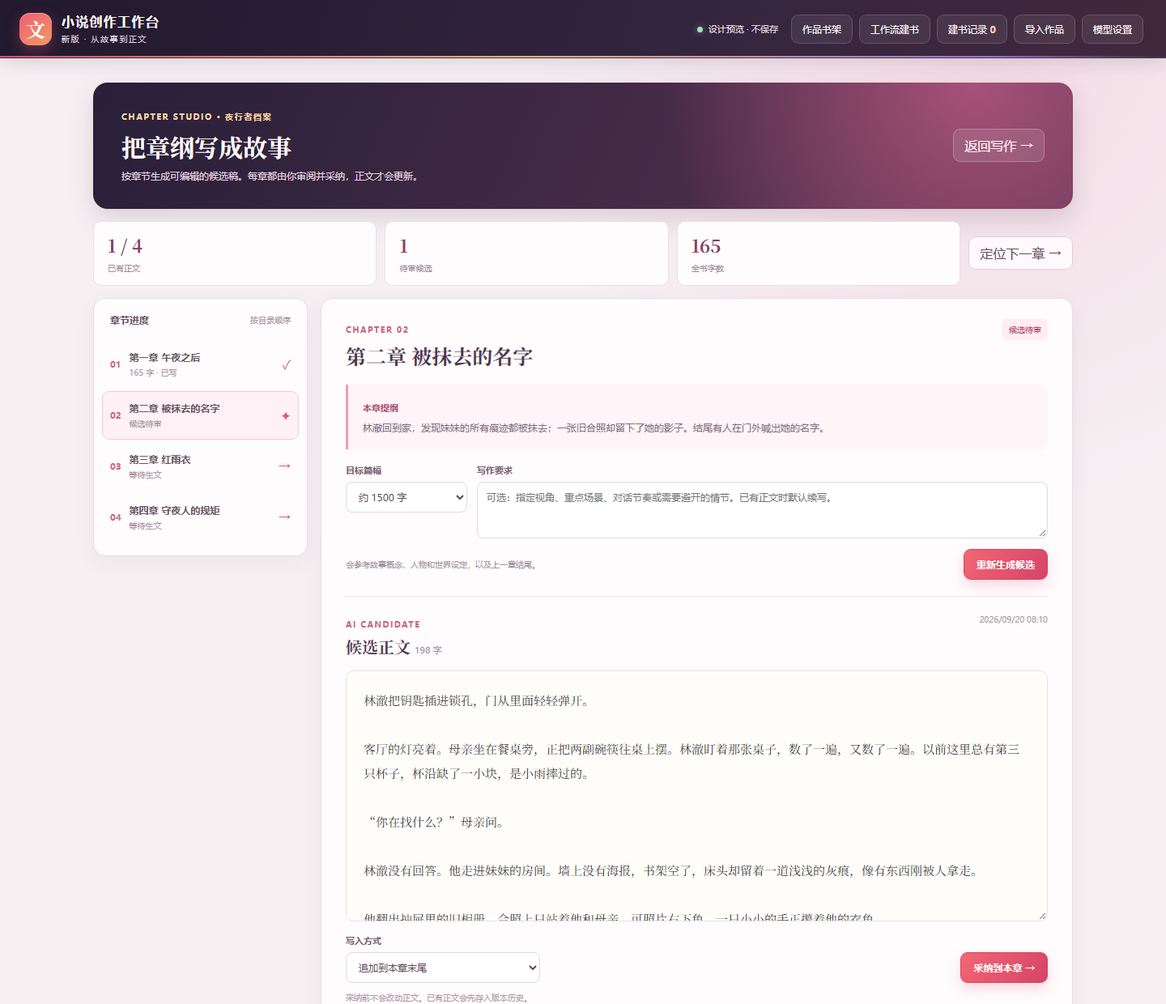
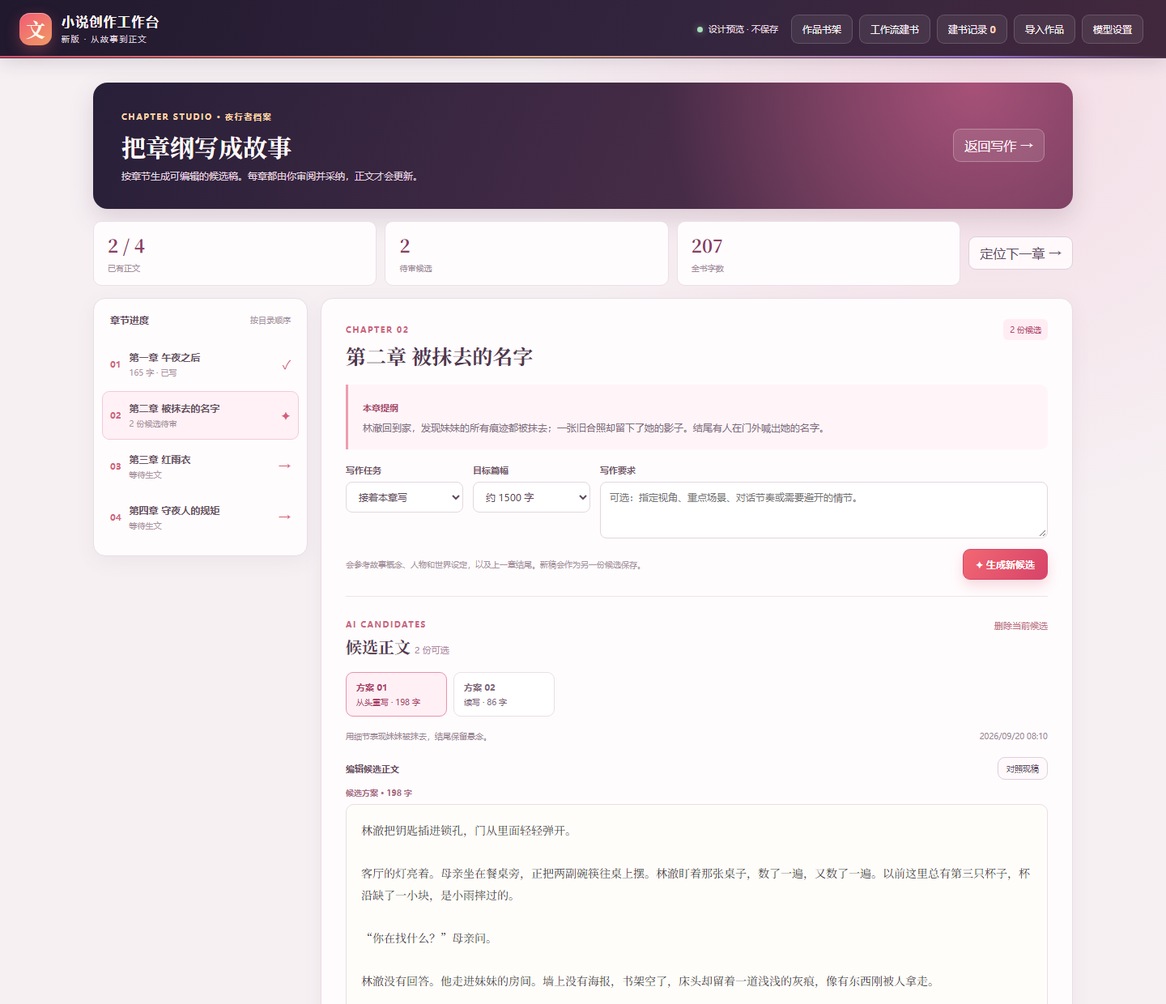
feat: compare and preserve chapter prose candidates

diff --git a/src/App.vue b/src/App.vue
@@ -74,12 +74,20 @@
         <header class="production-hero"><div><small>CHAPTER STUDIO · {{ book.title }}</small><h1>把章纲写成故事</h1><p>按章节生成可编辑的候选稿。每章都由你审阅并采纳，正文才会更新。</p></div><button class="secondary" @click="screen = 'editor'">返回写作 →</button></header>
         <div class="production-summary"><div><strong>{{ productionDoneCount }} / {{ book.chapters.length }}</strong><span>已有正文</span></div><div><strong>{{ productionCandidateCount }}</strong><span>待审候选</span></div><div><strong>{{ bookWords.toLocaleString() }}</strong><span>全书字数</span></div><button class="secondary" :disabled="!nextUnwrittenChapter" @click="selectProductionChapter(nextUnwrittenChapter!.id)">定位下一章 →</button></div>
         <div class="production-layout">
-          <nav class="production-chapters" aria-label="生文章节列表"><div class="production-list-title"><strong>章节进度</strong><span>按目录顺序</span></div><button v-for="(item, index) in book.chapters" :key="item.id" type="button" :class="{ active: item.id === selectedChapterId }" @click="selectProductionChapter(item.id)"><b>{{ String(index + 1).padStart(2, '0') }}</b><span><strong>{{ item.title }}</strong><small>{{ item.proseCandidate ? '候选待审' : item.content.trim() ? `${countWords(item.content)} 字 · 已写` : '等待生文' }}</small></span><i>{{ item.proseCandidate ? '✦' : item.content.trim() ? '✓' : '→' }}</i></button></nav>
+          <nav class="production-chapters" aria-label="生文章节列表"><div class="production-list-title"><strong>章节进度</strong><span>按目录顺序</span></div><button v-for="(item, index) in book.chapters" :key="item.id" type="button" :class="{ active: item.id === selectedChapterId }" @click="selectProductionChapter(item.id)"><b>{{ String(index + 1).padStart(2, '0') }}</b><span><strong>{{ item.title }}</strong><small>{{ item.proseCandidates?.length ? `${item.proseCandidates.length} 份候选待审` : item.content.trim() ? `${countWords(item.content)} 字 · 已写` : '等待生文' }}</small></span><i>{{ item.proseCandidates?.length ? '✦' : item.content.trim() ? '✓' : '→' }}</i></button></nav>
           <section v-if="chapter" class="production-stage">
-            <div class="production-stage-head"><div><small>CHAPTER {{ String(book.chapters.findIndex(item => item.id === selectedChapterId) + 1).padStart(2, '0') }}</small><h2>{{ chapter.title }}</h2></div><span :class="{ ready: !!chapter.proseCandidate }">{{ chapter.proseCandidate ? '候选待审' : chapter.content.trim() ? '已有正文' : '待生成' }}</span></div>
+            <div class="production-stage-head"><div><small>CHAPTER {{ String(book.chapters.findIndex(item => item.id === selectedChapterId) + 1).padStart(2, '0') }}</small><h2>{{ chapter.title }}</h2></div><span :class="{ ready: !!chapter.proseCandidates?.length }">{{ chapter.proseCandidates?.length ? `${chapter.proseCandidates.length} 份候选` : chapter.content.trim() ? '已有正文' : '待生成' }}</span></div>
             <div class="production-outline"><strong>本章提纲</strong><p>{{ chapter.outline || '还没有章纲。可以先在写作页补充，以便 AI 把握本章事件。' }}</p></div>
-            <div class="production-controls"><div class="production-fields"><label>目标篇幅<select v-model.number="productionLength"><option :value="800">约 800 字</option><option :value="1500">约 1500 字</option><option :value="2000">约 2000 字</option></select></label><label>写作要求<textarea v-model="productionInstruction" placeholder="可选：指定视角、重点场景、对话节奏或需要避开的情节。已有正文时默认续写。" /></label></div><div class="production-generate"><span>会参考故事概念、人物和世界设定，以及上一章结尾。</span><button v-if="productionBusy" class="secondary" @click="stopProduction">停止生成</button><button v-else class="primary" @click="generateProduction">{{ chapter.proseCandidate ? '重新生成候选' : '✦ 生成正文候选' }}</button></div><p v-if="productionError" class="workflow-error" role="alert">{{ productionError }}</p></div>
-            <div v-if="chapter.proseCandidate" class="production-candidate"><div class="production-section-head"><div><small>AI CANDIDATE</small><h3>候选正文 <span>{{ countWords(chapter.proseCandidate.content) }} 字</span></h3></div><time :datetime="chapter.proseCandidate.createdAt">{{ formatVersionTime(chapter.proseCandidate.createdAt) }}</time></div><p v-if="chapter.proseCandidate.baseUpdatedAt !== chapter.updatedAt" class="production-warning">生成后本章又有修改，请确认候选与现稿衔接。</p><textarea v-model="chapter.proseCandidate.content" aria-label="可编辑的正文候选" spellcheck="false" /><div class="production-adopt"><label>写入方式<select v-model="productionInsert"><option value="append">追加到本章末尾</option><option value="replace">替换本章正文</option></select></label><button class="primary" :disabled="!chapter.proseCandidate.content.trim()" @click="adoptProduction">采纳到本章 →</button></div><p>采纳前不会改动正文。已有正文会先存入版本历史。</p></div>
+            <div class="production-controls"><div class="production-fields"><label>写作任务<select v-model="productionKind"><option value="continue" :disabled="!chapter.content.trim()">接着本章写</option><option value="rewrite">从头写本章</option></select></label><label>目标篇幅<select v-model.number="productionLength"><option :value="800">约 800 字</option><option :value="1500">约 1500 字</option><option :value="2000">约 2000 字</option></select></label><label>写作要求<textarea v-model="productionInstruction" placeholder="可选：指定视角、重点场景、对话节奏或需要避开的情节。" /></label></div><div class="production-generate"><span>会参考故事概念、人物和世界设定，以及上一章结尾。新稿会作为另一份候选保存。</span><button v-if="productionBusy" class="secondary" @click="stopProduction">停止生成</button><button v-else class="primary" @click="generateProduction">✦ 生成新候选</button></div><p v-if="productionError" class="workflow-error" role="alert">{{ productionError }}</p></div>
+            <div v-if="selectedProseCandidate" class="production-candidate">
+              <div class="production-section-head"><div><small>AI CANDIDATES</small><h3>候选正文 <span>{{ chapter.proseCandidates?.length }} 份可选</span></h3></div><button class="production-delete" @click="deleteProductionCandidate">删除当前候选</button></div>
+              <div class="production-variants" role="tablist" aria-label="正文候选版本"><button v-for="(candidate, index) in chapter.proseCandidates" :key="candidate.id" type="button" role="tab" :aria-selected="selectedProseCandidate.id === candidate.id" :class="{ active: selectedProseCandidate.id === candidate.id }" @click="selectProductionCandidate(candidate.id)"><strong>方案 {{ String(index + 1).padStart(2, '0') }}</strong><span>{{ candidate.kind === 'rewrite' ? '从头重写' : '续写' }} · {{ countWords(candidate.content) }} 字</span></button></div>
+              <div class="production-candidate-meta"><span>{{ selectedProseCandidate.instruction || '没有额外写作要求' }}</span><time :datetime="selectedProseCandidate.createdAt">{{ formatVersionTime(selectedProseCandidate.createdAt) }}</time></div>
+              <p v-if="selectedProseCandidate.baseUpdatedAt !== chapter.updatedAt" class="production-warning">生成后本章又有修改，请确认候选与现稿衔接。</p>
+              <div class="production-compare-toolbar"><strong>{{ compareProduction && chapter.content.trim() ? '现稿与候选对照' : '编辑候选正文' }}</strong><button v-if="chapter.content.trim()" class="secondary" @click="compareProduction = !compareProduction">{{ compareProduction ? '单独审阅' : '对照现稿' }}</button></div>
+              <div class="production-compare" :class="{ comparing: compareProduction && chapter.content.trim() }"><div v-if="compareProduction && chapter.content.trim()" class="production-text-panel"><span>当前正文 · {{ countWords(chapter.content) }} 字</span><textarea :value="chapter.content" aria-label="当前正文（只读）" readonly /></div><div class="production-text-panel"><span>候选方案 · {{ countWords(selectedProseCandidate.content) }} 字</span><textarea v-model="selectedProseCandidate.content" aria-label="可编辑的正文候选" spellcheck="false" /></div></div>
+              <div class="production-adopt"><label>写入方式<select v-model="productionInsert"><option value="append">追加到本章末尾</option><option value="replace">替换本章正文</option></select></label><button class="primary" :disabled="!selectedProseCandidate.content.trim()" @click="adoptProduction">采纳这份候选 →</button></div><p>采纳前不会改动正文。已有正文会先存入版本历史；其他候选继续保留。</p>
+            </div>
             <div v-if="chapter.content.trim()" class="production-existing"><details><summary>查看当前正文 · {{ countWords(chapter.content) }} 字</summary><div>{{ chapter.content }}</div></details></div>
           </section>
         </div>
@@ -300,7 +308,7 @@ const data = ref(designPreview ? designFixture() : loadData())
 const importInput = ref<HTMLInputElement | null>(null)
 const workflowImportInput = ref<HTMLInputElement | null>(null)
 const previewPanel = designPreview ? new URLSearchParams(location.search).get('panel') : null
-const screen = ref<'shelf' | 'editor' | 'workflow' | 'workflow-history' | 'production'>(previewPanel === 'workflow' ? 'workflow' : previewPanel === 'workflow-history' ? 'workflow-history' : previewPanel === 'production' ? 'production' : !data.value.books.length || previewPanel === 'shelf' ? 'shelf' : 'editor')
+const screen = ref<'shelf' | 'editor' | 'workflow' | 'workflow-history' | 'production'>(previewPanel === 'workflow' ? 'workflow' : previewPanel === 'workflow-history' ? 'workflow-history' : previewPanel === 'production' || previewPanel === 'production-compare' ? 'production' : !data.value.books.length || previewPanel === 'shelf' ? 'shelf' : 'editor')
 function designWorkflowArchive(): WorkflowArchive {
   const draft = createWorkflowRecord({ ...emptyWorkflow(), step: 2, title: '星门长夜', genre: '东方奇幻', seed: '每个人在成年那天都能看见自己的终局。', idea: '一个看不见终局的少年，被帝国认定为灾厄。他必须在三十天内找出预言失效的原因。', outline: '第1章｜看不见的终局｜成人礼上，主角的命盘一片空白\n第2章｜追捕令｜帝国使者抵达村庄' })
   draft.id = 'design-workflow-draft'
@@ -341,16 +349,20 @@ const shelfQuery = ref('')
 const shelfSort = ref<'recent' | 'title'>('recent')
 const selectedBookId = ref(data.value.books[0]?.id || '')
 const selectedChapterId = ref(data.value.books[0]?.chapters[0]?.id || '')
-if (designPreview && previewPanel === 'production') selectedChapterId.value = data.value.books[0]?.chapters[1]?.id || selectedChapterId.value
+if (designPreview && ['production', 'production-compare'].includes(previewPanel || '')) selectedChapterId.value = data.value.books[0]?.chapters[1]?.id || selectedChapterId.value
 const book = computed(() => data.value.books.find(item => item.id === selectedBookId.value))
 const chapter = computed(() => book.value?.chapters.find(item => item.id === selectedChapterId.value))
 const bookWords = computed(() => book.value?.chapters.reduce((sum, item) => sum + countWords(item.content), 0) || 0)
 const productionDoneCount = computed(() => book.value?.chapters.filter(item => item.content.trim()).length || 0)
-const productionCandidateCount = computed(() => book.value?.chapters.filter(item => item.proseCandidate).length || 0)
-const nextUnwrittenChapter = computed(() => book.value?.chapters.find(item => !item.content.trim() && !item.proseCandidate) || null)
+const productionCandidateCount = computed(() => book.value?.chapters.reduce((sum, item) => sum + (item.proseCandidates?.length || 0), 0) || 0)
+const nextUnwrittenChapter = computed(() => book.value?.chapters.find(item => !item.content.trim() && !item.proseCandidates?.length) || null)
 const productionLength = ref(1500)
 const productionInstruction = ref('')
-const productionInsert = ref<'append' | 'replace'>('append')
+const productionKind = ref<'continue' | 'rewrite'>(chapter.value?.content.trim() ? 'continue' : 'rewrite')
+const productionInsert = ref<'append' | 'replace'>(chapter.value?.content.trim() ? 'append' : 'replace')
+const selectedCandidateId = ref('')
+const selectedProseCandidate = computed(() => chapter.value?.proseCandidates?.find(item => item.id === selectedCandidateId.value) || chapter.value?.proseCandidates?.[0])
+const compareProduction = ref(designPreview && previewPanel === 'production-compare')
 const productionBusy = ref(false)
 const productionError = ref('')
 let productionController: AbortController | null = null
@@ -621,50 +633,75 @@ function selectBook(id: string) {
 function openProduction() {
   if (!book.value) return
   if (!book.value.chapters.some(item => item.id === selectedChapterId.value)) selectedChapterId.value = book.value.chapters[0]?.id || ''
-  productionInsert.value = chapter.value?.content.trim() ? 'append' : 'replace'
+  selectProductionChapter(selectedChapterId.value)
   productionError.value = ''
   screen.value = 'production'
 }
 function selectProductionChapter(id: string) {
   if (!book.value?.chapters.some(item => item.id === id)) return
+  if (selectedChapterId.value !== id) productionInstruction.value = ''
   selectedChapterId.value = id
-  productionInsert.value = chapter.value?.content.trim() ? 'append' : 'replace'
+  selectedCandidateId.value = chapter.value?.proseCandidates?.[0]?.id || ''
+  productionKind.value = chapter.value?.content.trim() ? 'continue' : 'rewrite'
+  productionInsert.value = selectedProseCandidate.value?.kind === 'rewrite' || !chapter.value?.content.trim() ? 'replace' : 'append'
+  compareProduction.value = false
   productionError.value = ''
+}
+function selectProductionCandidate(id: string) {
+  if (!chapter.value?.proseCandidates?.some(item => item.id === id)) return
+  selectedCandidateId.value = id
+  productionInsert.value = selectedProseCandidate.value?.kind === 'rewrite' || !chapter.value.content.trim() ? 'replace' : 'append'
 }
 function stopProduction() { productionController?.abort() }
 async function generateProduction() {
   if (!book.value || !chapter.value || productionBusy.value) return
-  if (chapter.value.proseCandidate && !confirm('重新生成会替换这一章尚未采纳的候选稿。确定继续？')) return
   const targetBook = book.value
   const targetChapter = chapter.value
   const baseUpdatedAt = targetChapter.updatedAt
   const instruction = productionInstruction.value.trim()
+  const kind = productionKind.value
   const requestController = new AbortController()
   productionController = requestController
   productionBusy.value = true
   productionError.value = ''
   try {
-    const content = await generateChapterProse({ model: data.value.model, book: targetBook, chapterId: targetChapter.id, instruction, targetLength: productionLength.value, signal: requestController.signal })
+    const content = await generateChapterProse({ model: data.value.model, book: targetBook, chapterId: targetChapter.id, instruction, targetLength: productionLength.value, kind, signal: requestController.signal })
     if (requestController.signal.aborted) return
     if (!data.value.books.some(item => item.id === targetBook.id) || !targetBook.chapters.some(item => item.id === targetChapter.id)) return
-    targetChapter.proseCandidate = { content, instruction, createdAt: now(), baseUpdatedAt }
+    const candidate = { id: uid(), content, instruction, createdAt: now(), baseUpdatedAt, kind }
+    ;(targetChapter.proseCandidates ||= []).unshift(candidate)
+    if (selectedBookId.value === targetBook.id && selectedChapterId.value === targetChapter.id) selectProductionCandidate(candidate.id)
     targetBook.updatedAt = now()
     flushSave()
   } catch (error) { if (!requestController.signal.aborted) productionError.value = error instanceof Error ? error.message : String(error) }
   finally { if (productionController === requestController) { productionBusy.value = false; productionController = null } }
 }
+function deleteProductionCandidate() {
+  if (!chapter.value || !book.value || !selectedProseCandidate.value) return
+  if (!confirm('确定删除当前候选稿吗？此操作无法撤销。')) return
+  const id = selectedProseCandidate.value.id
+  chapter.value.proseCandidates = chapter.value.proseCandidates?.filter(item => item.id !== id)
+  const nextCandidateId = chapter.value.proseCandidates?.[0]?.id || ''
+  selectedCandidateId.value = nextCandidateId
+  if (nextCandidateId) selectProductionCandidate(nextCandidateId)
+  book.value.updatedAt = now()
+  flushSave()
+}
 function adoptProduction() {
-  if (!book.value || !chapter.value?.proseCandidate) return
-  const candidate = chapter.value.proseCandidate
+  if (!book.value || !chapter.value || !selectedProseCandidate.value) return
+  const candidate = selectedProseCandidate.value
   const content = candidate.content.trim()
   if (!content) return
   if (productionInsert.value === 'replace' && chapter.value.content.trim() && !confirm('确定替换本章现有正文吗？原稿会先保存到版本历史。')) return
   if (chapter.value.content.trim()) recordChapterVersion(chapter.value, 'ai')
   chapter.value.content = productionInsert.value === 'replace' ? content : [chapter.value.content.trimEnd(), content].filter(Boolean).join('\n\n')
-  chapter.value.proseCandidate = undefined
+  chapter.value.proseCandidates = chapter.value.proseCandidates?.filter(item => item.id !== candidate.id)
+  const nextCandidateId = chapter.value.proseCandidates?.[0]?.id || ''
+  selectedCandidateId.value = nextCandidateId
   touchChapter()
+  if (nextCandidateId) selectProductionCandidate(nextCandidateId)
   flushSave()
-  const next = book.value.chapters.find(item => !item.content.trim() && !item.proseCandidate)
+  const next = book.value.chapters.find(item => !item.content.trim() && !item.proseCandidates?.length)
   if (next) selectProductionChapter(next.id)
 }
 function touchChapter() {

diff --git a/src/style.css b/src/style.css
@@ -735,7 +735,7 @@ button:focus-visible, input:focus-visible, textarea:focus-visible, select:focus-
 .production-outline strong { color: #a94c6e; font-size: 11px; }
 .production-outline p { margin: 6px 0 0; color: #826b7c; font-size: 12px; line-height: 1.8; white-space: pre-wrap; }
 .production-controls { padding-bottom: 20px; border-bottom: 1px solid #eee2e9; }
-.production-fields { display: grid; grid-template-columns: 150px minmax(0, 1fr); gap: 12px; }
+.production-fields { display: grid; grid-template-columns: 145px 145px minmax(0, 1fr); gap: 12px; }
 .production-fields label, .production-adopt label { color: #71576a; font-size: 11px; font-weight: 700; }
 .production-fields select, .production-fields textarea, .production-adopt select { display: block; width: 100%; margin-top: 7px; padding: 9px 11px; border: 1px solid #e5d6e0; border-radius: 8px; color: #5e485a; background: #fff; font-size: 12px; font-weight: 400; }
 .production-fields textarea { height: 70px; line-height: 1.6; resize: vertical; }
@@ -747,7 +747,25 @@ button:focus-visible, input:focus-visible, textarea:focus-visible, select:focus-
 .production-section-head h3 span { color: #ad879d; font: 400 11px system-ui, sans-serif; }
 .production-section-head time { color: #a894a2; font-size: 10px; }
 .production-warning { padding: 9px 11px; border-radius: 7px; color: #985c36; background: #fff3dc; font-size: 11px; }
-.production-candidate > textarea { width: 100%; min-height: 310px; margin-top: 15px; padding: 21px; border: 1px solid #eadde4; border-radius: 10px; color: #443943; background: var(--paper); font-family: "Noto Serif SC", "Songti SC", SimSun, serif; font-size: 15px; line-height: 2; resize: vertical; }
+.production-delete { padding: 7px 0; border: 0; color: #bd7185; background: transparent; font-size: 11px; }
+.production-delete:hover { color: #a3395b; text-decoration: underline; }
+.production-variants { display: flex; gap: 8px; overflow-x: auto; margin-top: 17px; padding-bottom: 4px; }
+.production-variants button { min-width: 125px; padding: 10px 12px; border: 1px solid #ebdfe7; border-radius: 9px; color: #806779; background: #fff; text-align: left; }
+.production-variants button.active { border-color: #e992aa; color: #a94268; background: #fff0f5; }
+.production-variants strong, .production-variants span { display: block; white-space: nowrap; }
+.production-variants strong { font-size: 11px; }
+.production-variants span { margin-top: 4px; font-size: 10px; }
+.production-candidate-meta { display: flex; justify-content: space-between; gap: 14px; margin-top: 12px; color: #9a8794; font-size: 10px; line-height: 1.6; }
+.production-candidate-meta time { flex: none; }
+.production-compare-toolbar { display: flex; align-items: center; justify-content: space-between; gap: 12px; margin: 18px 0 9px; }
+.production-compare-toolbar strong { color: #674b60; font-size: 11px; }
+.production-compare-toolbar button { padding: 6px 10px; font-size: 10px; }
+.production-compare { display: grid; grid-template-columns: 1fr; gap: 12px; }
+.production-compare.comparing { grid-template-columns: repeat(2, minmax(0, 1fr)); }
+.production-text-panel { min-width: 0; }
+.production-text-panel > span { display: block; margin: 0 0 7px; color: #a86c84; font-size: 10px; font-weight: 700; }
+.production-text-panel textarea { width: 100%; min-height: 310px; padding: 18px; border: 1px solid #eadde4; border-radius: 10px; color: #443943; background: var(--paper); font-family: "Noto Serif SC", "Songti SC", SimSun, serif; font-size: 14px; line-height: 1.9; resize: vertical; }
+.production-text-panel textarea[readonly] { color: #766874; background: #f9f6f5; }
 .production-adopt { display: flex; align-items: end; justify-content: space-between; gap: 12px; margin-top: 12px; }
 .production-adopt label { width: min(240px, 55%); }
 .production-adopt button { flex: none; font-size: 12px; }
@@ -756,4 +774,4 @@ button:focus-visible, input:focus-visible, textarea:focus-visible, select:focus-
 .production-existing summary { color: #965c78; font-size: 11px; font-weight: 700; cursor: pointer; }
 .production-existing details > div { max-height: 360px; overflow-y: auto; margin-top: 10px; padding: 20px; border: 1px solid #eee4e9; border-radius: 9px; color: #6f5e69; background: #fff; font-family: "Noto Serif SC", "Songti SC", SimSun, serif; font-size: 13px; line-height: 2; white-space: pre-wrap; }
 @media (max-width: 800px) { .production-layout { grid-template-columns: 1fr; } .production-chapters { display: flex; overflow-x: auto; } .production-list-title { min-width: 90px; flex-direction: column; align-items: start; justify-content: center; } .production-chapters > button { width: 175px; flex: none; } }
-@media (max-width: 600px) { .production-shell { width: calc(100% - 22px); padding-top: 12px; } .production-hero { align-items: start; flex-direction: column; padding: 22px; } .production-hero h1 { font-size: 25px; } .production-summary { grid-template-columns: repeat(3, 1fr); gap: 5px; } .production-summary > div { padding: 10px; } .production-summary strong { font-size: 17px; } .production-summary button { grid-column: 1 / -1; } .production-stage { padding: 20px 15px; } .production-fields { grid-template-columns: 1fr; } .production-generate { align-items: stretch; flex-direction: column; } .production-adopt { align-items: stretch; flex-direction: column; } .production-adopt label { width: 100%; } }
+@media (max-width: 600px) { .production-shell { width: calc(100% - 22px); padding-top: 12px; } .production-hero { align-items: start; flex-direction: column; padding: 22px; } .production-hero h1 { font-size: 25px; } .production-summary { grid-template-columns: repeat(3, 1fr); gap: 5px; } .production-summary > div { padding: 10px; } .production-summary strong { font-size: 17px; } .production-summary button { grid-column: 1 / -1; } .production-stage { padding: 20px 15px; } .production-fields { grid-template-columns: 1fr; } .production-generate { align-items: stretch; flex-direction: column; } .production-compare.comparing { grid-template-columns: 1fr; } .production-adopt { align-items: stretch; flex-direction: column; } .production-adopt label { width: 100%; } }

diff --git a/src/storage.ts b/src/storage.ts
@@ -8,15 +8,19 @@ export interface Chapter {
   content: string
   updatedAt: string
   history?: ChapterVersion[]
-  proseCandidate?: ChapterProseCandidate
+  proseCandidates?: ChapterProseCandidate[]
+  /** 旧版单候选字段，仅用于读取迁移。 */
+  proseCandidate?: Omit<ChapterProseCandidate, 'id' | 'kind'>
 }
 
 export interface ChapterProseCandidate {
+  id: string
   content: string
   instruction: string
   createdAt: string
   /** 生成时章节正文的更新时间，用于提示候选稿可能已过期。 */
   baseUpdatedAt: string
+  kind: 'continue' | 'rewrite'
 }
 
 export interface ChapterVersion {
@@ -72,6 +76,21 @@ const STORAGE_KEY = 'novel-workbench-next/v1'
 export const uid = () => crypto.randomUUID()
 export const now = () => new Date().toISOString()
 
+/** 兼容此前的单候选作品，并过滤备份中的无效候选。 */
+export function migrateProseCandidates(chapter: Chapter): void {
+  const source = Array.isArray(chapter.proseCandidates) && chapter.proseCandidates.length ? chapter.proseCandidates : chapter.proseCandidate ? [chapter.proseCandidate] : []
+  const normalized = source.filter(item => item && typeof item.content === 'string' &&
+    typeof item.instruction === 'string' && typeof item.createdAt === 'string' &&
+    Number.isFinite(Date.parse(item.createdAt)) && typeof item.baseUpdatedAt === 'string')
+    .map(item => ({ id: 'id' in item && typeof item.id === 'string' && item.id ? item.id : uid(),
+      content: item.content, instruction: item.instruction, createdAt: item.createdAt,
+      baseUpdatedAt: item.baseUpdatedAt,
+      kind: 'kind' in item && item.kind === 'rewrite' ? 'rewrite' : 'continue' } satisfies ChapterProseCandidate))
+  if (normalized.length) chapter.proseCandidates = normalized
+  else delete chapter.proseCandidates
+  delete chapter.proseCandidate
+}
+
 /** 留存章稿，跳过与最新版本相同的内容，并限制浏览器内的历史体积。 */
 export function recordChapterVersion(chapter: Chapter, source: ChapterVersion['source']): ChapterVersion | null {
   const history = chapter.history ||= []
@@ -94,7 +113,10 @@ export function createBook(title: string): Book {
 export function loadData(): ProjectData {
   try {
     const parsed: unknown = JSON.parse(localStorage.getItem(STORAGE_KEY) || 'null')
-    if (isProjectData(parsed)) return parsed
+    if (isProjectData(parsed)) {
+      for (const book of parsed.books) for (const chapter of book.chapters) migrateProseCandidates(chapter)
+      return parsed
+    }
   } catch { /* 损坏数据保留在浏览器里，避免自动覆盖 */ }
   return { version: 1, books: [], model: { baseUrl: '', model: '', apiKey: '' } }
 }
@@ -138,13 +160,14 @@ export function importBookJson(value: unknown): Book {
       ['manual', 'ai', 'restore'].includes(version.source))
       .slice(0, 30).map(version => ({ id: uid(), title: version.title, content: version.content,
         savedAt: version.savedAt, source: version.source })) : []
-    const candidate = item.proseCandidate
-    const proseCandidate = candidate && typeof candidate.content === 'string' &&
-      typeof candidate.instruction === 'string' && typeof candidate.createdAt === 'string' &&
-      Number.isFinite(Date.parse(candidate.createdAt)) && typeof candidate.baseUpdatedAt === 'string'
-      ? { content: candidate.content, instruction: candidate.instruction, createdAt: candidate.createdAt,
-          baseUpdatedAt: candidate.baseUpdatedAt === item.updatedAt ? updatedAt : candidate.baseUpdatedAt } : undefined
-    return { id, title: item.title, outline: typeof item.outline === 'string' ? item.outline : '', content: item.content, updatedAt, history, proseCandidate }
+    const chapter: Chapter = { id, title: item.title, outline: typeof item.outline === 'string' ? item.outline : '', content: item.content, updatedAt, history,
+      proseCandidates: item.proseCandidates, proseCandidate: item.proseCandidate }
+    migrateProseCandidates(chapter)
+    for (const candidate of chapter.proseCandidates || []) {
+      candidate.id = uid()
+      if (candidate.baseUpdatedAt === item.updatedAt) candidate.baseUpdatedAt = updatedAt
+    }
+    return chapter
   })
   const lore = source.lore.map(item => ({ id: uid(), title: item.title, content: item.content,
     mode: item.mode, timeLabel: typeof item.timeLabel === 'string' ? item.timeLabel : undefined }))

diff --git a/src/design-fixture.ts b/src/design-fixture.ts
@@ -17,7 +17,10 @@ export function designFixture(): ProjectData {
           content: '凌晨零点，城市的钟声敲了十三下。\n\n林澈停在便利店门口，手里的热咖啡忽然凉了。街对面的人群仍在走动，仿佛谁都没有听见多出来的那一声。只有他看见，路灯下那个穿红雨衣的女孩抬起头，朝他做了个噤声的手势。\n\n下一秒，手机亮起。一条没有署名的短信写着：别回家。你妹妹已经不在那里了。\n\n他拨出那个熟悉的号码。提示音响了很久，接通的人却问：“你找谁？”',
           updatedAt: '2026-09-20T00:00:00.000Z',
         },
-        { id: 'design-chapter-2', title: '第二章 被抹去的名字', outline: '林澈回到家，发现妹妹的所有痕迹都被抹去；一张旧合照却留下了她的影子。结尾有人在门外喊出她的名字。', content: '', updatedAt: '2026-09-20T00:00:00.000Z', proseCandidate: { content: '林澈把钥匙插进锁孔，门从里面轻轻弹开。\n\n客厅的灯亮着。母亲坐在餐桌旁，正把两副碗筷往桌上摆。林澈盯着那张桌子，数了一遍，又数了一遍。以前这里总有第三只杯子，杯沿缺了一小块，是小雨摔过的。\n\n“你在找什么？”母亲问。\n\n林澈没有回答。他走进妹妹的房间。墙上没有海报，书架空了，床头却留着一道浅浅的灰痕，像有东西刚被人拿走。\n\n他翻出抽屉里的旧相册。合照上只站着他和母亲，可照片右下角，一只小小的手正攥着他的衣角。', instruction: '用细节表现妹妹被抹去，结尾保留悬念。', createdAt: '2026-09-20T00:10:00.000Z', baseUpdatedAt: '2026-09-20T00:00:00.000Z' } },
+        { id: 'design-chapter-2', title: '第二章 被抹去的名字', outline: '林澈回到家，发现妹妹的所有痕迹都被抹去；一张旧合照却留下了她的影子。结尾有人在门外喊出她的名字。', content: '门锁只转了半圈就开了。\n\n玄关的灯亮着，鞋柜上摆着两双拖鞋，一双是他的，另一双也是他的。', updatedAt: '2026-09-20T00:00:00.000Z', proseCandidates: [
+          { id: 'design-candidate-1', kind: 'rewrite', content: '林澈把钥匙插进锁孔，门从里面轻轻弹开。\n\n客厅的灯亮着。母亲坐在餐桌旁，正把两副碗筷往桌上摆。林澈盯着那张桌子，数了一遍，又数了一遍。以前这里总有第三只杯子，杯沿缺了一小块，是小雨摔过的。\n\n“你在找什么？”母亲问。\n\n林澈没有回答。他走进妹妹的房间。墙上没有海报，书架空了，床头却留着一道浅浅的灰痕，像有东西刚被人拿走。\n\n他翻出抽屉里的旧相册。合照上只站着他和母亲，可照片右下角，一只小小的手正攥着他的衣角。', instruction: '用细节表现妹妹被抹去，结尾保留悬念。', createdAt: '2026-09-20T00:10:00.000Z', baseUpdatedAt: '2026-09-20T00:00:00.000Z' },
+          { id: 'design-candidate-2', kind: 'continue', content: '林澈没有脱鞋。他顺着走廊往里看，妹妹房门原来的位置，竟多了一面墙。\n\n墙漆还没干透，空气里有一股刺鼻的味道。他伸手摸过去，指尖沾上一点白。墙的另一边，像有什么东西轻轻敲了两下。', instruction: '从门口的异常继续写，节奏紧一点。', createdAt: '2026-09-20T00:08:00.000Z', baseUpdatedAt: '2026-09-20T00:00:00.000Z' },
+        ] },
         { id: 'design-chapter-3', title: '第三章 红雨衣', content: '', updatedAt: '2026-09-20T00:00:00.000Z' },
         { id: 'design-chapter-4', title: '第四章 守夜人的规矩', content: '', updatedAt: '2026-09-20T00:00:00.000Z' },
       ],

diff --git a/src/ai.ts b/src/ai.ts
@@ -84,7 +84,7 @@ export async function generateDraft(args: {
 }
 
 /** 根据已确认的作品资料与相邻章节写可审阅的正文候选，不修改作品。 */
-export function chapterProsePrompt(book: Book, chapterId: string, instruction: string, targetLength: number): { system: string; user: string } {
+export function chapterProsePrompt(book: Book, chapterId: string, instruction: string, targetLength: number, kind: 'continue' | 'rewrite' = 'continue'): { system: string; user: string } {
   const index = book.chapters.findIndex(item => item.id === chapterId)
   if (index < 0) throw new Error('目标章节已不存在')
   const chapter = book.chapters[index]
@@ -99,16 +99,16 @@ export function chapterProsePrompt(book: Book, chapterId: string, instruction: s
       lore && `已确认的作品资料：\n${lore}`,
       previous && `上一章「${previous.title}」结尾（仅用于承接，不要重复）：\n${previous.content.slice(-2600) || previous.outline?.slice(-800) || '暂无'}`,
       `当前章节：${chapter.title}\n本章提纲：${chapter.outline?.trim() || '尚未填写，请按作品核心和前文自然推进。'}`,
-      chapter.content.trim() && `本章已有正文结尾（若要求续写，请直接接上）：\n${chapter.content.slice(-2600)}`,
+      chapter.content.trim() && (kind === 'rewrite' ? `本章现稿（只作参考；请重新构思写法，不要逐句改写）：\n${chapter.content.slice(0, 2600)}` : `本章已有正文结尾（直接接上，不要重复）：\n${chapter.content.slice(-2600)}`),
       next?.outline && `下一章边界（留伏笔，不提前展开）：${next.outline.slice(0, 500)}`,
-      `本次目标：约 ${targetLength} 个汉字，写出完整场景和至少一次明确推进。${chapter.content.trim() ? '如果没有特别要求，接续本章已有正文。' : '从本章开头写起。'}`,
+      `本次目标：约 ${targetLength} 个汉字，写出完整场景和至少一次明确推进。${kind === 'rewrite' || !chapter.content.trim() ? '从本章开头写一份完整的新稿，与现稿可独立比较。' : '接续本章已有正文，不重复开头。'}`,
       instruction.trim() && `作者额外要求：${instruction.trim().slice(0, 1200)}`,
     ].filter(Boolean).join('\n\n'),
   }
 }
 
-export async function generateChapterProse(args: { model: ModelSettings; book: Book; chapterId: string; instruction: string; targetLength: number; signal: AbortSignal }): Promise<string> {
-  const { model, book, chapterId, instruction, targetLength, signal } = args
-  const prompt = chapterProsePrompt(book, chapterId, instruction, targetLength)
+export async function generateChapterProse(args: { model: ModelSettings; book: Book; chapterId: string; instruction: string; targetLength: number; kind: 'continue' | 'rewrite'; signal: AbortSignal }): Promise<string> {
+  const { model, book, chapterId, instruction, targetLength, kind, signal } = args
+  const prompt = chapterProsePrompt(book, chapterId, instruction, targetLength, kind)
   return requestChatCompletion({ model, system: prompt.system, user: prompt.user, signal, maxTokens: Math.min(6500, Math.max(2400, targetLength * 3)) })
 }

diff --git a/README.md b/README.md
@@ -8,7 +8,7 @@
 - 故事概念，以及可在写作页右侧切换查看的作品资料库（世界观、人物设定、时间线、剧情规划）；正文与资料自动保存在本机浏览器。
 - 章节版本历史：手动留存当前稿，AI 写入正文前自动保存原稿；可以预览和恢复，历史随作品 JSON 导出。
 - 四步工作流建书：创作方向、书名与章节规划、世界与人物、确认建书。AI 内容先预览再采纳；支持多份草稿、建书历史、继续编辑、复制方案及 JSON 导入导出，建书后自动生成章节提纲与作品资料。
-- 逐章生文：按章节提纲、设定和上一章结尾生成正文候选；候选可修改并跨刷新保留，采纳后才写入章节，原稿自动进入版本历史。候选稿随作品 JSON 备份。
+- 逐章生文：按章节提纲、设定和上一章结尾生成正文候选；可以选择续写或从头重写，同章保留多份候选，对照现稿、修改、删除并择优采纳。原稿自动进入版本历史，未采纳候选随作品 JSON 备份。
 - 配置兼容 Chat Completions 的模型，按“正文 / 世界观 / 人物 / 剧情”生成内容。
 - AI 结果先预览修改，再采纳到章节或设定库；作品可以导出为 JSON。
 
@@ -18,7 +18,7 @@
 
 ## 界面设计预览
 
-新版采用“连载创作室”视觉方案，规则与页面结构见 [UI 设计说明](./UI_DESIGN.md)。开发服务启动后，访问 `http://127.0.0.1:6790/?ui-preview=1` 可查看带样例内容的写作页；加上 `&panel=shelf` 可查看作品书架，`&panel=workflow` 可查看建书流程，`&panel=workflow-history` 可查看建书记录，`&panel=production` 可查看逐章生文，`&panel=reference` 可查看作品资料，`&panel=preview` 可查看 AI 内容采纳弹窗。样例只在开发环境显示，不保存到本地作品。
+新版采用“连载创作室”视觉方案，规则与页面结构见 [UI 设计说明](./UI_DESIGN.md)。开发服务启动后，访问 `http://127.0.0.1:6790/?ui-preview=1` 可查看带样例内容的写作页；加上 `&panel=shelf` 可查看作品书架，`&panel=workflow` 可查看建书流程，`&panel=workflow-history` 可查看建书记录，`&panel=production` 可查看逐章生文，`&panel=production-compare` 可查看候选与现稿对照，`&panel=reference` 可查看作品资料，`&panel=preview` 可查看 AI 内容采纳弹窗。样例只在开发环境显示，不保存到本地作品。
 
 ## Agnes 3.0 Flash
 
@@ -29,4 +29,4 @@
 - 第一版是浏览器版；还没有 Tauri 桌面打包。数据保存在当前浏览器的 localStorage，清理站点数据前请分别导出作品和建书记录。建书记录备份不包含小说正文，导入完成记录后需单独导入对应作品。
 - 模型在浏览器中直连服务商。若服务商不允许网页跨域访问，需在后续桌面版接入原生网络层。当前未对 Agnes 做真实账号调用验证。
 - 此版本暂不读取旧版数据库，避免误改旧版作品；导出 JSON 是新版格式。
-- 建书工作流已实现可编辑的四步流程与多份记录；逐章生文目前需要每章手动生成和采纳，尚无无人值守批量任务或 AI 候选并排对比。旧版的榜单、拆书、每日写作统计与图片生成仍未实现。当前章节历史保留最近 30 个版本，尚无逐字差异对比。
+- 建书工作流已实现可编辑的四步流程与多份记录；逐章生文目前需要每章手动生成和采纳，尚无无人值守批量任务。可切换多份候选并对照现稿，但尚无逐字差异标记。旧版的榜单、拆书、每日写作统计与图片生成仍未实现。当前章节历史保留最近 30 个版本。

diff --git a/UI_DESIGN.md b/UI_DESIGN.md
@@ -29,7 +29,7 @@
 书架：作品搜索与排序 / 章节、字数、资料概览 / 继续最近写作章节
 建书：创作方向 / 故事骨架 / 人物世界 / 确认建书；每次 AI 生成均先预览与采纳
 建书记录：多份草稿与完成方案 / 继续编辑 / 复制 / 备份导入导出
-逐章生文：章节进度 / 本章提纲 / 生成设置 / 候选稿审阅和采纳
+逐章生文：章节进度 / 本章提纲 / 续写或重写 / 多候选切换 / 现稿对照与采纳
 左一：作品书架
 左二：章节目录
 中央：章节路径 / 故事概念与设定 / 纸张正文
@@ -37,7 +37,7 @@
 浮层：资料集中编辑、章节版本预览与恢复、模型设置、生成内容预览和采纳
 ```
 
-`?ui-preview=1` 是开发环境专用的界面样例，展示一部虚构作品、四章目录和一段 AI 对话，不会读写用户作品。添加 `&panel=shelf` 查看作品书架；添加 `&panel=workflow` 查看建书流程；添加 `&panel=workflow-history` 查看带样例草稿的建书记录；添加 `&panel=production` 查看逐章生文审阅页；添加 `&panel=reference` 查看作品资料栏；添加 `&panel=preview` 查看“预览并采纳”弹窗。直接打开普通地址进入真实本地数据。
+`?ui-preview=1` 是开发环境专用的界面样例，展示一部虚构作品、四章目录和一段 AI 对话，不会读写用户作品。添加 `&panel=shelf` 查看作品书架；添加 `&panel=workflow` 查看建书流程；添加 `&panel=workflow-history` 查看带样例草稿的建书记录；添加 `&panel=production` 查看逐章生文审阅页；添加 `&panel=production-compare` 查看候选与现稿对照；添加 `&panel=reference` 查看作品资料栏；添加 `&panel=preview` 查看“预览并采纳”弹窗。直接打开普通地址进入真实本地数据。
 
 ## 交互原则
 
@@ -49,7 +49,7 @@
 
 ## 待设计的页面
 
-现阶段仍需继续设计 AI 候选并排对比、逐字版本比较、每日写作统计、移动端写作布局。建书流程已有四步草稿、AI 候选预览、章节提纲生成；建书记录已支持多草稿与备份；章节历史已有手动快照、AI 写入前快照与安全恢复；作品书架已可搜索、排序并进入最近写作章节；时间线已有基础条目与故事内时间字段，完整事件关联和图形时间轴留待下一阶段。当前窄屏布局是可用的基础适配，尚未做移动端专门交互。
+现阶段仍需继续设计逐字版本比较、每日写作统计、移动端写作布局。逐章生文已支持多份候选切换和现稿并排审阅；建书流程已有四步草稿、AI 候选预览、章节提纲生成；建书记录已支持多草稿与备份；章节历史已有手动快照、AI 写入前快照与安全恢复；作品书架已可搜索、排序并进入最近写作章节；时间线已有基础条目与故事内时间字段，完整事件关联和图形时间轴留待下一阶段。当前窄屏布局是可用的基础适配，尚未做移动端专门交互。
 
 ## 全产品页面规划
 
@@ -76,6 +76,7 @@
 - [窄屏工作流建书](./design/workflow-mobile.png)
 - [建书记录](./design/workflow-history.png)
 - [逐章生文](./design/production-desktop.png)
+- [候选稿与现稿对照](./design/production-compare.png)
 - [窄屏建书记录](./design/workflow-history-mobile.png)
 - [空书架](./design/welcome-final.png)
 - [AI 预览并采纳](./design/adopt-preview.png)

diff --git a/FEATURE_INVENTORY.md b/FEATURE_INVENTORY.md
@@ -104,5 +104,5 @@
 
 ## 新版第一阶段的实际范围
 
-已实现：独立 Vue 项目、作品书架与章节管理、正文编辑、本机自动保存、故事概念与设定库、四类 AI 生成、预览后采纳、四步建书工作流、多草稿与建书历史、基础章节版本历史、逐章生成正文候选与审阅采纳、新版 JSON 作品及建书记录导入导出。未实现：旧版数据迁移、桌面容器、无人值守批量生文、榜单、拆书、每日统计、图片生成和完整版本对比。Agnes 已按官方接口文档加入预设与连接测试，真实账号调用仍待验证。
+已实现：独立 Vue 项目、作品书架与章节管理、正文编辑、本机自动保存、故事概念与设定库、四类 AI 生成、预览后采纳、四步建书工作流、多草稿与建书历史、基础章节版本历史、逐章生成正文候选、续写与重写、多候选保存及现稿对照、新版 JSON 作品及建书记录导入导出。未实现：旧版数据迁移、桌面容器、无人值守批量生文、榜单、拆书、每日统计、图片生成和逐字差异对比。Agnes 已按官方接口文档加入预设与连接测试，真实账号调用仍待验证。
 
